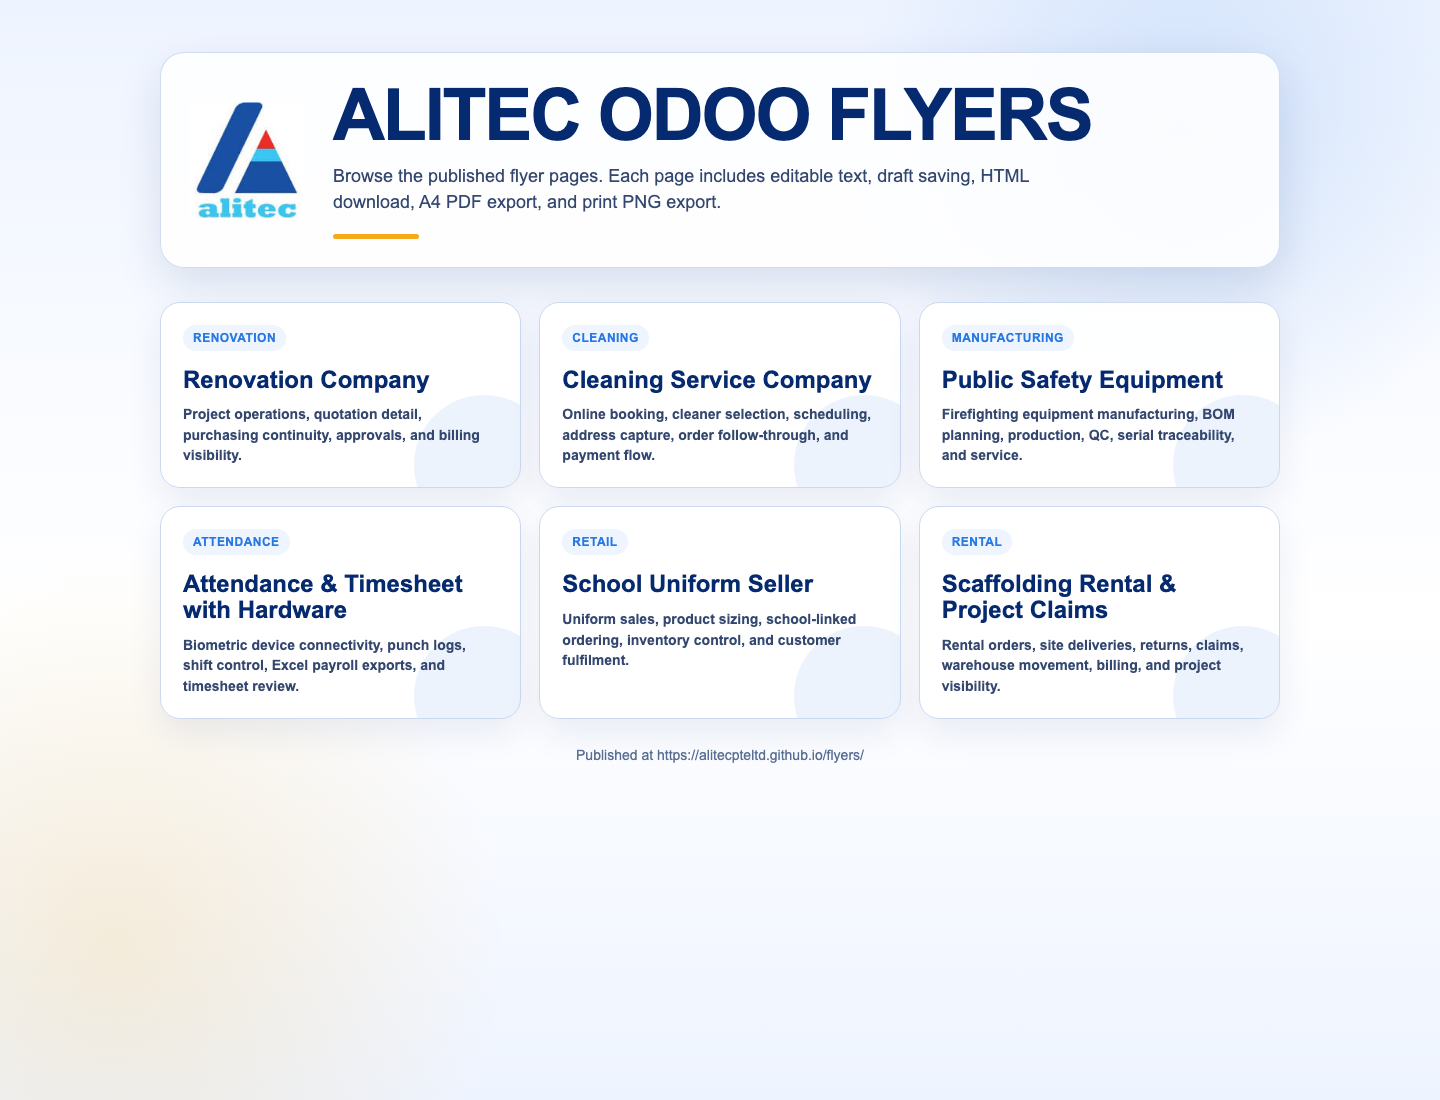
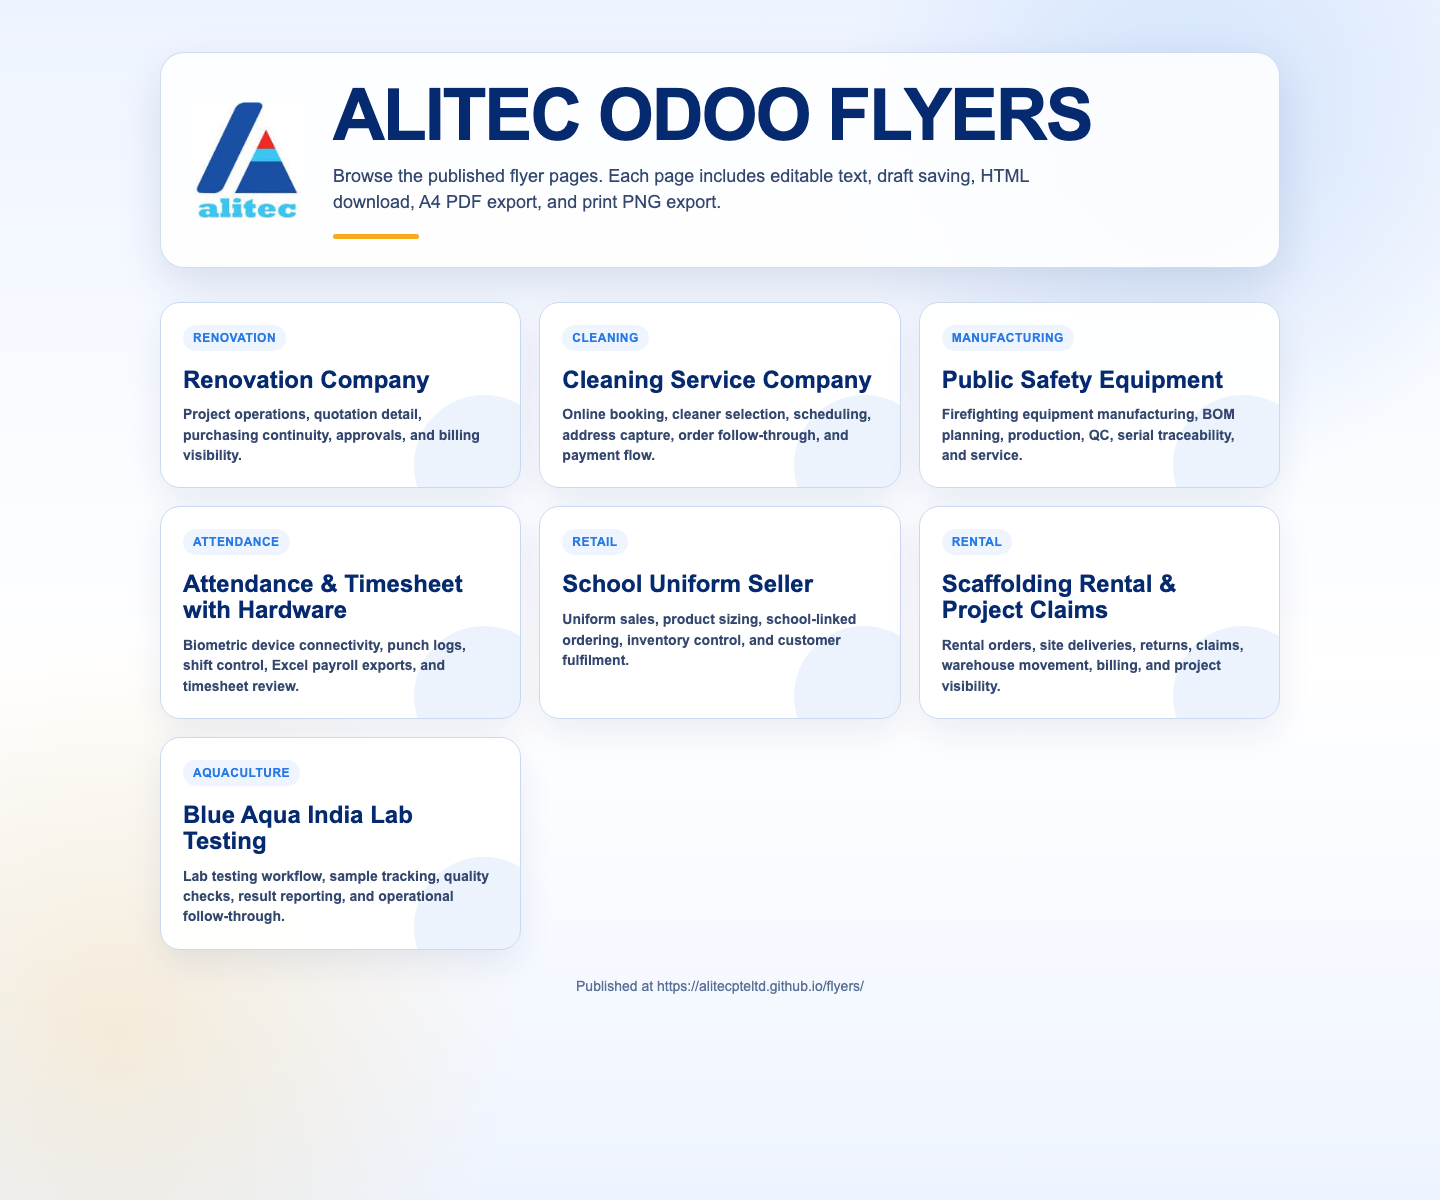
update

Changed region(s): [[0.0938, 0.0309, 0.9062, 0.8036], [0.4062, 0.8036, 0.5938, 0.8345], [0.4062, 0.68, 0.5938, 0.7109]]

diff --git a/projects/blue-aqua-india/index.html b/projects/blue-aqua-india/index.html
@@ -154,7 +154,7 @@
     .quick-benefits {
       display: grid;
       grid-template-columns: repeat(4, 1fr);
-      width: 548px;
+      width: 720px;
       margin-top: 18px;
       border: 1px solid #c5dde9;
       border-radius: 18px;
@@ -164,19 +164,26 @@
     }
 
     .quick-benefit {
-      height: 128px;
-      padding: 13px 16px 11px;
+      min-height: 108px;
+      padding: 12px 14px 10px;
       border-right: 1px dashed #9ec8dd;
     }
 
     .quick-benefit:last-child { border-right: 0; }
 
+    .quick-benefit-top {
+      display: flex;
+      align-items: center;
+      gap: 10px;
+      margin-bottom: 8px;
+    }
+
     .round-icon {
       width: 39px;
       height: 39px;
+      flex: 0 0 39px;
       display: grid;
       place-items: center;
-      margin-bottom: 7px;
       border-radius: 50%;
       background: var(--navy);
       color: #fff;
@@ -185,8 +192,9 @@
     .round-icon i { font-size: 18px; }
 
     .quick-benefit h3 {
-      margin: 0 0 7px;
-      font-size: 13px;
+      margin: 0;
+      font-size: 12.5px;
+      line-height: 1.15;
       color: var(--navy);
       font-weight: 800;
     }
@@ -194,8 +202,8 @@
     .quick-benefit p {
       margin: 0;
       color: #0a2f52;
-      font-size: 9.4px;
-      line-height: 1.24;
+      font-size: 9.2px;
+      line-height: 1.28;
       font-weight: 600;
     }
 
@@ -718,23 +726,31 @@
 
       <div class="quick-benefits">
         <div class="quick-benefit">
-          <div class="round-icon"><i class="fa-solid fa-user-group"></i></div>
-          <h3>Farmer-Linked Samples</h3>
+          <div class="quick-benefit-top">
+            <div class="round-icon"><i class="fa-solid fa-user-group"></i></div>
+            <h3>Farmer-Linked Samples</h3>
+          </div>
           <p>Register farmers with district, cluster, farm, and pond context for every batch.</p>
         </div>
         <div class="quick-benefit">
-          <div class="round-icon"><i class="fa-solid fa-flask"></i></div>
-          <h3>Auto Lab Creation</h3>
+          <div class="quick-benefit-top">
+            <div class="round-icon"><i class="fa-solid fa-flask"></i></div>
+            <h3>Auto Lab Creation</h3>
+          </div>
           <p>Confirmed sales orders open the correct water, soil, seed, PCR, or microbiology tests.</p>
         </div>
         <div class="quick-benefit">
-          <div class="round-icon"><i class="fa-solid fa-sliders"></i></div>
-          <h3>Range-Based Control</h3>
+          <div class="quick-benefit-top">
+            <div class="round-icon"><i class="fa-solid fa-sliders"></i></div>
+            <h3>Range-Based Control</h3>
+          </div>
           <p>Maintain parameter libraries with optimum values for consistent interpretation.</p>
         </div>
         <div class="quick-benefit">
-          <div class="round-icon"><i class="fa-solid fa-prescription-bottle-medical"></i></div>
-          <h3>Prescription Upsell</h3>
+          <div class="quick-benefit-top">
+            <div class="round-icon"><i class="fa-solid fa-prescription-bottle-medical"></i></div>
+            <h3>Prescription Upsell</h3>
+          </div>
           <p>Convert completed recommendations into quotation options for treatment products.</p>
         </div>
       </div>